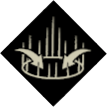
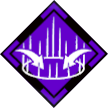
add upgraded images

diff --git a/scripts.js b/scripts.js
@@ -1,4 +1,4 @@
-const max = {
+const costs = {
   "Whisper": [0,1],
   "Defensive Stance": [1,1],
   "Dark Flame": [2,1],
@@ -38,29 +38,49 @@ const triggers = document.getElementsByTagName('figure');
 
     // FIRST CLICK (UNLOCKED)
     if(trig.classList.length == 0){
+      // change image
       trig.classList.add("first");
-      localStorage.setItem(`aragami2-${skill}`, max[skill][0]);
+      const old = trig.children[0].attributes.src.nodeValue;
+      const neww = old.replace("-locked","-unlocked");
+      trig.children[0].setAttribute("src",neww);
+      // add points to storage
+      localStorage.setItem(`aragami2-${skill}`, costs[skill][0]);
       // add points to totals
-      skillpoints = parseInt(skillpoints) - max[skill][0];
+      skillpoints = parseInt(skillpoints) - costs[skill][0];
       localStorage.setItem(`aragami2-total`, parseInt(skillpoints));
       num.innerHTML = localStorage.getItem("aragami2-total");
     }
     // SECOND CLICK (UPGRADED)
     else if(trig.classList.contains("first")){
+      // change image
       trig.classList.replace("first","second");
-      localStorage.setItem(`aragami2-up-${skill}`, max[skill][1]);
+      const old = trig.children[0].attributes.src.nodeValue;
+      const neww = old.replace("-unlocked","-upgraded");
+      trig.children[0].setAttribute("src",neww);
+      // add points to storage
+      localStorage.setItem(`aragami2-up-${skill}`, costs[skill][1]);
       // add points to totals
-      skillpoints = parseInt(skillpoints) - max[skill][1];
+      skillpoints = parseInt(skillpoints) - costs[skill][1];
       localStorage.setItem(`aragami2-total`, parseInt(skillpoints));
       num.innerHTML = localStorage.getItem("aragami2-total");
     } 
     // RESET CLICK
     else if(trig.classList.contains("second")){
+      // change image
       trig.classList.remove("second");
+      const old = trig.children[0].attributes.src.nodeValue;
+      let neww = "";
+      if(old.endsWith("-unlocked")) {
+        neww = old.replace("-unlocked","-locked");
+      } else {
+        neww = old.replace("-upgraded","-locked");
+      }
+      trig.children[0].setAttribute("src",neww);
+      // remove points from storage
       localStorage.removeItem(`aragami2-${skill}`);
       localStorage.removeItem(`aragami2-up-${skill}`);
       // add points back to totals
-      skillpoints = parseInt(skillpoints) + max[skill][0]+max[skill][1];
+      skillpoints = parseInt(skillpoints) + costs[skill][0]+costs[skill][1];
       localStorage.setItem(`aragami2-total`, parseInt(skillpoints));
       num.innerHTML = "";
       num.innerHTML = localStorage.getItem("aragami2-total");
@@ -80,15 +100,25 @@ function loadFromStorage() {
   const skills = Object.keys(localStorage).sort(); // alphabetic sort
   skills.forEach( key => {
     const newKey = key.replace("aragami2-","").replace(" ","");
+    const item = document.getElementById(newKey);
     // FIRST CLICK (UNLOCKED)
     if(!newKey.startsWith("up-")){
       if(newKey != "total") {
-        document.getElementById(newKey).classList.add("first");
+        item.classList.add("first");
+        // replace images
+        const old = item.children[0].attributes.src.nodeValue;
+        const neww = old.replace("-locked","-unlocked");
+        item.children[0].setAttribute("src",neww);
       }
     // SECOND CLICK (UPGRADED)
     } else if(newKey.startsWith("up-")) {
       const tmpKey = newKey.replace("up-","");
-      document.getElementById(tmpKey).classList.replace("first","second");
+      const tmpitem = document.getElementById(tmpKey);
+      tmpitem.classList.replace("first","second");
+      // replace images
+      const old = tmpitem.children[0].attributes.src.nodeValue;
+      const neww = old.replace("-unlocked","-upgraded");
+      tmpitem.children[0].setAttribute("src",neww);
     }
 
     // display total
@@ -98,6 +128,27 @@ function loadFromStorage() {
     }
 
   });
+
+}
+
+
+
+disableRows();
+function disableRows() {
+
+  const row1 = document.querySelector(".row1");
+  const row2 = document.querySelector(".row2");
+  const row3 = document.querySelector(".row3");
+  const row4 = document.querySelector(".row4");
+  const row5 = document.querySelector(".row5");
+  const row6 = document.querySelector(".row6");
+
+  console.log(row2);
+
+  
+
+
+
 
 }
 

diff --git a/styles.css b/styles.css
@@ -3,10 +3,6 @@
 body {
   margin: 0;
   background-image: url("imgs/tile.png");
-  /* background-image: url("imgs/cloud.png"), url("imgs/tile.png"); */
-  /* background-repeat: no-repeat, repeat;
-  background-position: bottom left, top left;
-  background-size: 300px 300px, 300px 300px; */
 }
 
 h1 {
@@ -24,7 +20,7 @@ img {
   height: 50px;
 }
 
-div.footer {
+footer {
   position: fixed;
   bottom: 0px;
   background-image: url("imgs/bar.png");
@@ -115,22 +111,17 @@ h3::before {
   border-top: 1px solid beige;
 }
 
-figure.first {
-  background: white;
-  box-shadow: 20px 20px 50px 15px grey;
-
+figure.first img {
+  filter: drop-shadow(0px 0px 10px white);
 }
 
-figure.second {
-  background: yellow;
-  box-shadow: 20px 20px 50px 15px grey;
+figure.second img {
+  filter: drop-shadow(0px 0px 10px yellow);
 }
 
 
 @media screen and (min-width: 400px) {
 
-
-  
   img {
     width: 100px;
     height: 100px;
@@ -149,12 +140,6 @@ figure.second {
     height: 100px;
   }
 
-  /* span.num {
-    bottom: 56px;
-    left: 36px;
-    font-size: 1.5em;
-  } */
-
   span.num {
     bottom: 66px;
     left: 56px;
@@ -166,7 +151,7 @@ figure.second {
     bottom: 0;
   }
 
-  div.footer {
+  footer {
     position: fixed;
     bottom: 0px;
     background-image: none;

diff --git a/index.html b/index.html
@@ -327,7 +327,7 @@
 
 <section class="row1">
 <figure id="Whisper">
-  <img src="imgs/1-whisper-unlocked.png"
+  <img src="imgs/1-whisper-locked.png"
        alt="Whisper - Shadow Power Ability">
   <figcaption>
     <h2>Whisper</h2>
@@ -341,13 +341,13 @@
 </section>
 
 
-<div class="footer">
+<footer>
   <img class="cloud" src="imgs/cloud.png"
        alt="background image for skill points area">
   <span id="numberHolder" class="num">30</span>
   <img class="counter" src="imgs/number-ring.png"
        alt="background image for total skill points counter">
-</div>
+</footer>
 
 <script src="scripts.js"></script>
 </body>
